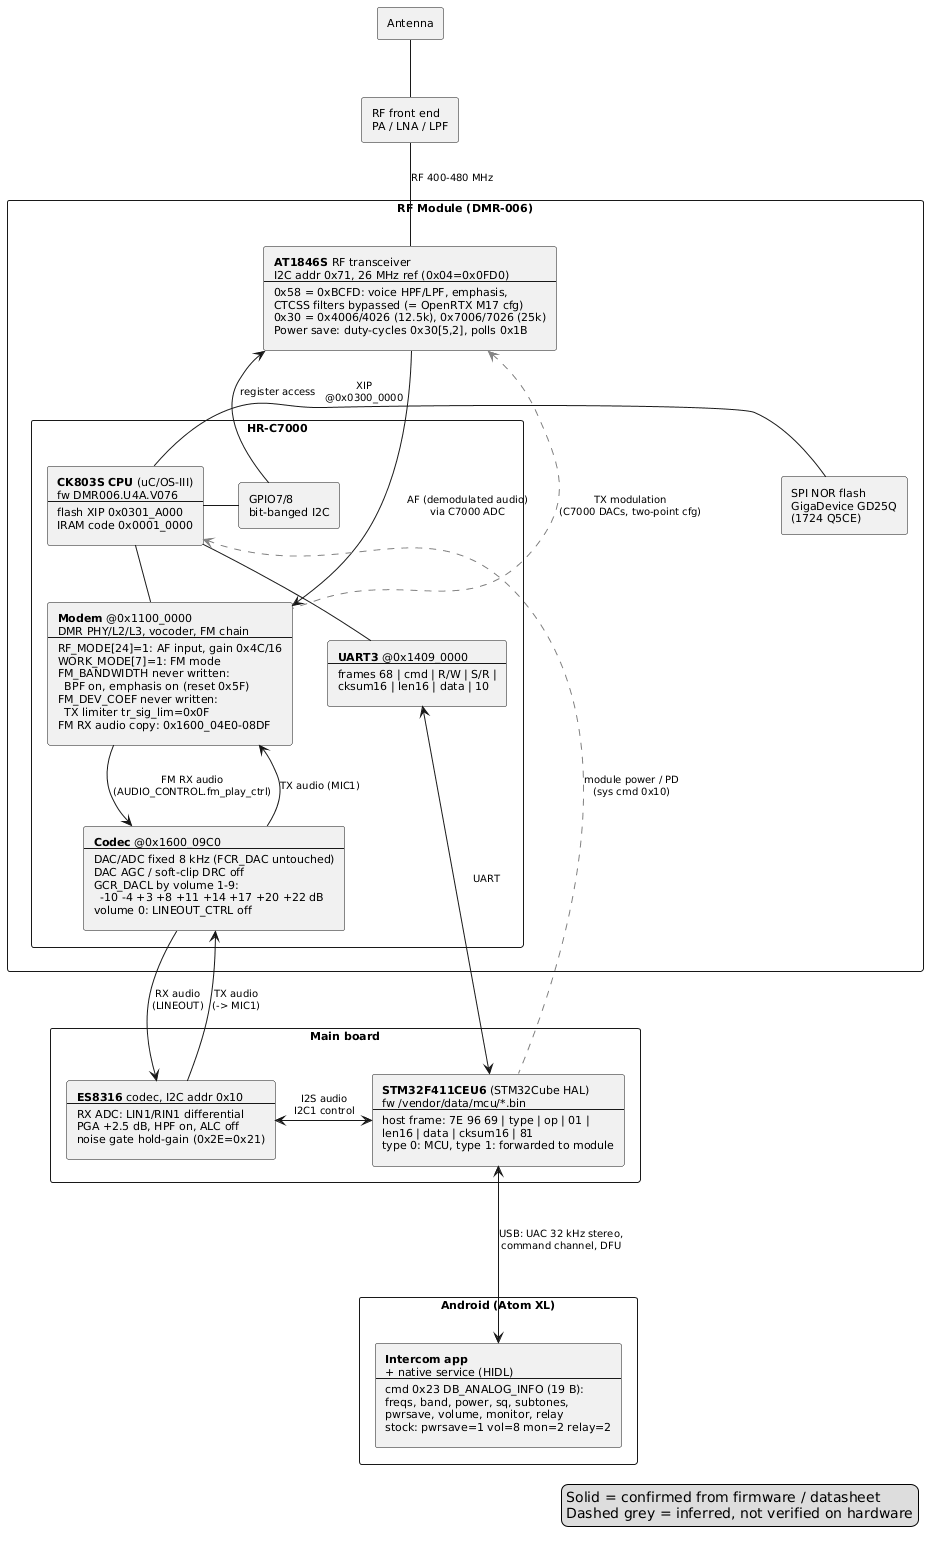
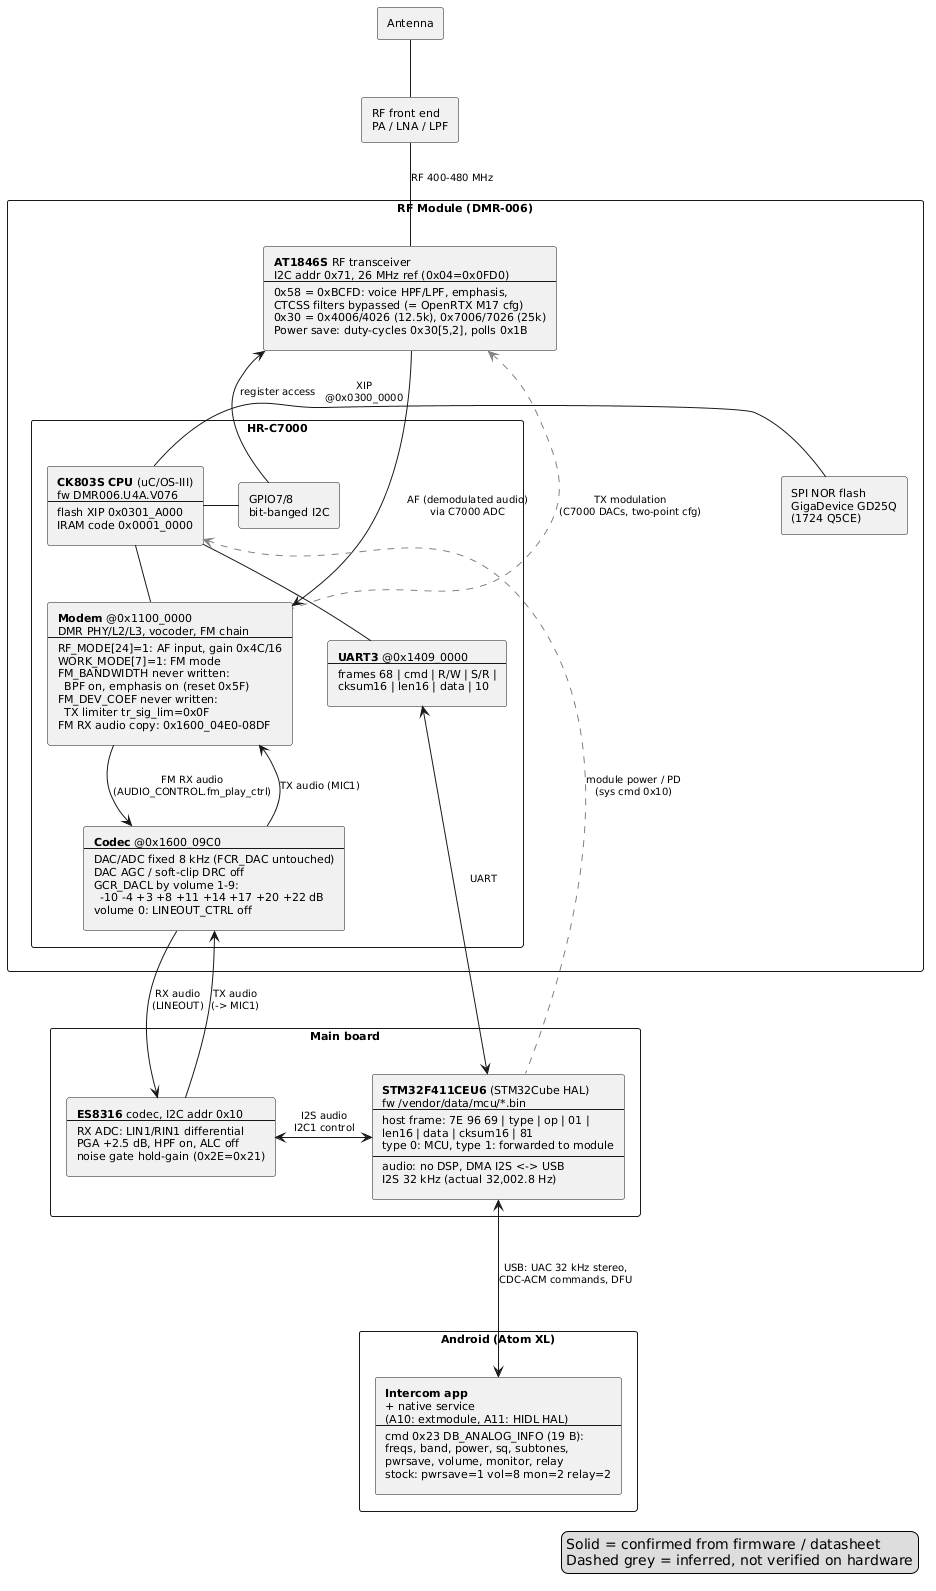
update

diff --git a/atomxl-re-docs/firmware-update.md b/atomxl-re-docs/firmware-update.md
@@ -22,6 +22,16 @@ a 14-digit timestamp. The image loads at 0x08000000 and has no checksum, so a
 single-byte patch can be flashed as-is. Recovery is always possible: the DFU
 bootloader is in ROM.
 
+To read back what is actually flashed (512 KB on the F411CE):
+
+```sh
+extcmdtest -u1 -r1 -p1; sleep 1.5
+dfu-util -d 0483:df11 -a 0 -s 0x08000000:0x80000 -U stm32_dump.bin
+sleep 0.5; extcmdtest -u0 -p0 -r0
+```
+
+This fails only if read protection is enabled.
+
 ## DMR module (HR-C7000) - YMODEM
 
 Reconstructed from `extmodule`'s `update_dmr_firmware`. The module has a
@@ -58,6 +68,56 @@ So to flash a patched image, bump the version (e.g. `V077`) both in the file nam
 and at offset 0x3341B, or the app re-flashes on every launch. To revert, drop the
 original back with a higher version string.
 
+### Android 11
+
+There is no `extmodule` on Android 11. The app calls the HIDL HAL
+`vendor.mediatek.hardware.aguiextmodule@1.0::IAguiExtModule`, whose
+`updateDmr(byte[], len)` receives the image bytes directly, it presumably runs the
+same YMODEM sequence. The HAL service holds `/dev/ttyACM0`. Find its init service
+name with `grep -r aguiextmodule /vendor/etc/init` (needed for the manual procedure
+below).
+
+### Manual bootloader capture (read-only)
+
+Enters the module bootloader exactly like the updater, but sends nothing and just
+records what it prints (ST-style IAP loaders normally print their menu). From an
+adb root shell on Android 10 (on Android 11, stop the HAL service instead of
+`extmodule`):
+
+```sh
+setprop ctl.stop extmodule
+am force-stop com.agold.intercom
+stty -F /dev/ttyACM0 raw -echo 115200
+cat /dev/ttyACM0 > /sdcard/dmr_boot.bin &
+
+printf '\x7e\x96\x69\x00\x10\x01\x00\x01\x00\xfd\xef\x81' > /dev/ttyACM0  # power off
+sleep 4
+echo 0 > /sys/bus/platform/drivers/mcu/handle_ptt                          # hold PTT
+printf '\x7e\x96\x69\x00\x08\x01\x00\x01\x01\xfd\xf6\x81' > /dev/ttyACM0  # bridge on
+sleep 2
+printf '\x7e\x96\x69\x00\x10\x01\x00\x01\x01\xfd\xee\x81' > /dev/ttyACM0  # power on
+sleep 5
+kill %1
+strings -n 3 /sdcard/dmr_boot.bin
+```
+
+Restore normal operation:
+
+```sh
+echo 1 > /sys/bus/platform/drivers/mcu/handle_ptt                          # release PTT
+printf '\x7e\x96\x69\x00\x08\x01\x00\x01\x00\xfd\xf7\x81' > /dev/ttyACM0  # bridge off
+printf '\x7e\x96\x69\x00\x10\x01\x00\x01\x00\xfd\xef\x81' > /dev/ttyACM0  # power off
+sleep 2
+printf '\x7e\x96\x69\x00\x10\x01\x00\x01\x01\xfd\xee\x81' > /dev/ttyACM0  # power on
+setprop ctl.start extmodule
+```
+
+The capture also contains the STM32's replies to the power and bridge frames. If
+`stty` is missing (it comes from toybox), the same steps work from a Python script
+under Termux. If the menu offers an upload option, send its key and receive with a
+YMODEM receiver (Termux: `pkg install lrzsz`, then `rb --ymodem` redirected to and
+from `/dev/ttyACM0`).
+
 ### Recovery
 
 PTT-held power-up enters the bootloader before the application runs, so a bad
@@ -70,4 +130,5 @@ protocol is not yet documented.
 - The flash address the bootloader writes to (assumed 0x0301A000).
 - Whether the bootloader validates the image (no checksum found in the payload).
 - Other IAP menu entries. ST's AN2557 menu uses `'2'` = upload, sending `'2'` in
-  update mode may dump the whole flash (bootloader included) - untested.
+  update mode may dump the whole flash (bootloader included) - untested. The
+  manual capture above should reveal the menu.

diff --git a/command-format.md b/command-format.md
@@ -3,8 +3,10 @@
 There are two protocol layers:
 
 ```
-Android app / native service --(host frames 7E 96 69 ... 81)--> STM32F411 --(module frames 68 ... 10, UART)--> DMR-006 (HR-C7000 UART3)
+Android app / native service --(host frames 7E 96 69 ... 81, USB CDC-ACM)--> STM32F411 --(module frames 68 ... 10, UART)--> DMR-006 (HR-C7000 UART3)
 ```
+
+On the phone, the host link is the STM32's USB CDC-ACM port, `/dev/ttyACM0`. The stock software opens it at 115200 8N1 raw.
 
 The STM32 handles type-0 (system) host frames itself. It re-packs type-1 (module) frames into module frames and forwards them, and it wraps the module's replies back into host frames.
 
@@ -44,14 +46,23 @@ Replies use the same format, with type and op echoed and flag = 0.
 
 | op | Data | Description |
 |---|---|---|
-| `0x01` | - | Get MCU firmware version. The reply has 14 bytes of data (format not confirmed). The MCU images are named with 14-digit timestamps. |
-| `0x08` | 1 byte: 1/0 | Enter/leave DMR module update mode: re-initialises the module UART and routes the module link for updating. |
-| `0x09` | n bytes | Raw write of the data to the module UART, with no framing. Used together with 0x08 to talk to the HR-C7000 boot ROM's serial download mode. |
-| `0x10` | 1 byte: 1/0 | DMR module power on/off. |
+| `0x01` | - | Get MCU firmware version. The reply is 14 ASCII digits, the firmware's build timestamp `YYYYMMDDhhmmss`, produced by `sprintf("%d%02d%02d%02d%02d%02d")` from `__DATE__`/`__TIME__`. For example, `20201016161541` for the image of the same name. |
+| `0x08` | 1 byte: 1/0 | Module update mode. 1 = the STM32 becomes a transparent bridge between USB CDC-ACM and the module UART (no framing either way), 0 = normal framed operation. The stock module updater uses this. |
+| `0x09` | n bytes | Raw write of the data to the module UART, with no framing. Not used by the stock updater (which uses bridge mode, 0x08), purpose otherwise unknown. |
+| `0x10` | 1 byte: 1/0 | DMR module power on/off. Sent by `extmodule`'s `setDmrOnOffState()`. |
 | `0x12` | 1 byte | Drives two module control GPIOs low (0 = also reconfigure them as outputs, otherwise re-initialise the UART). Probably reset/boot-mode control for updates (unconfirmed). |
 | other | - | Error reply: type 0, same op, data `02`. |
 
-For module firmware updates, the stock `auto_update` script only handles the MCU. That sequence is `extcmdtest -u1 -r1 -p1`, then `dfu-util -d 0483:df11 -a 0 -s 0x08000000 -D <file>`, then `extcmdtest -u0 -p0 -r0`.
+Ready-made system frames (built exactly as `extmodule`'s `make_cmd` does), for testing by hand:
+
+| Frame | Bytes |
+|---|---|
+| Module power off | `7E 96 69 00 10 01 00 01 00 FD EF 81` |
+| Module power on | `7E 96 69 00 10 01 00 01 01 FD EE 81` |
+| Bridge mode on | `7E 96 69 00 08 01 00 01 01 FD F6 81` |
+| Bridge mode off | `7E 96 69 00 08 01 00 01 00 FD F7 81` |
+
+Both firmware update procedures (MCU via DFU, module via YMODEM) are described in [firmware-update.md](./atomxl-re-docs/firmware-update.md).
 
 ### Module operations (type 1)
 

diff --git a/atomxl-re-docs/dmr-firmware-notes.md b/atomxl-re-docs/dmr-firmware-notes.md
@@ -45,7 +45,7 @@ Modem (`0x11000000`):
 | Offset | Name | Notes |
 |---|---|---|
 | `0x100` | WORK_MODE | bit 7 = FM mode (set by `FUN_0301af60`) |
-| `0x104` | RF_MODE | bit 24 = AF input, bits 6:5 = 3: two-point modulation |
+| `0x104` | RF_MODE | bit 24 = AF input, bits 6:5 = 3: two-point modulation, bits 31 and 29 ("reserved") enable an undocumented physical-layer receive test mode |
 | `0x108` | SIG_CENTER | two-point per-path offset (±422 mV) |
 | `0x114` | RF_MOD_BIAS_CTRL | MOD1/MOD2 amplitude, and MOD1 RX bias |
 | `0x500` | FM_BANDWIDTH | **never written**, reset 0x5F keeps band-pass (bit 6) and emphasis (bit 4) ON |
@@ -54,6 +54,23 @@ Modem (`0x11000000`):
 Codec (`0x160009C0`): DAC/ADC at a fixed 8 kHz (FCR_DAC never written), volume
 byte → GCR_DACL digital gain. FM RX audio is mirrored in RAM at
 `0x160004E0`-`0x160008DF`.
+
+## Audio sample rates
+
+- The receive ADC digitises the AT1846S AF output at **38.4 kHz** (8 samples per
+  4800-baud symbol), before the FM chain's filters. No documented register exposes
+  these samples to the CPU.
+- The FM chain runs internally at 32-38.4 kHz (its tone blocks are specified
+  against a 32 kHz clock).
+- The modem hands audio to the codec as 16-bit words with an **8 kHz strobe**
+  (user guide §7.2). The CPU tone-playback path and the vocoder feed are 8 kHz too.
+- `FCR_DAC.dac_freq` (`0x160009D4`, bits 3:0) and `FCR_ADC.adc_freq`
+  (`0x160009D7`) document only `0000` = 8 kHz, other codes are "omitted". The
+  codec's THD is specified for Fs <= 16 kHz, so higher codes likely exist, but
+  with an 8 kHz source they would probably repeat samples rather than add
+  bandwidth. Untested.
+- FM receive RAM (`0x160004E0`-`0x160008DF`) holds two ping-pong buffers of 256
+  16-bit PCM samples each, stored big-endian (high byte at the lower address).
 
 AT1846S transceiver: I2C address 0x71, bit-banged by the C7000 on GPIO 7/8.
 Register 0x58 = 0xBCFD (all voice filters + emphasis bypassed — same as OpenRTX M17).
